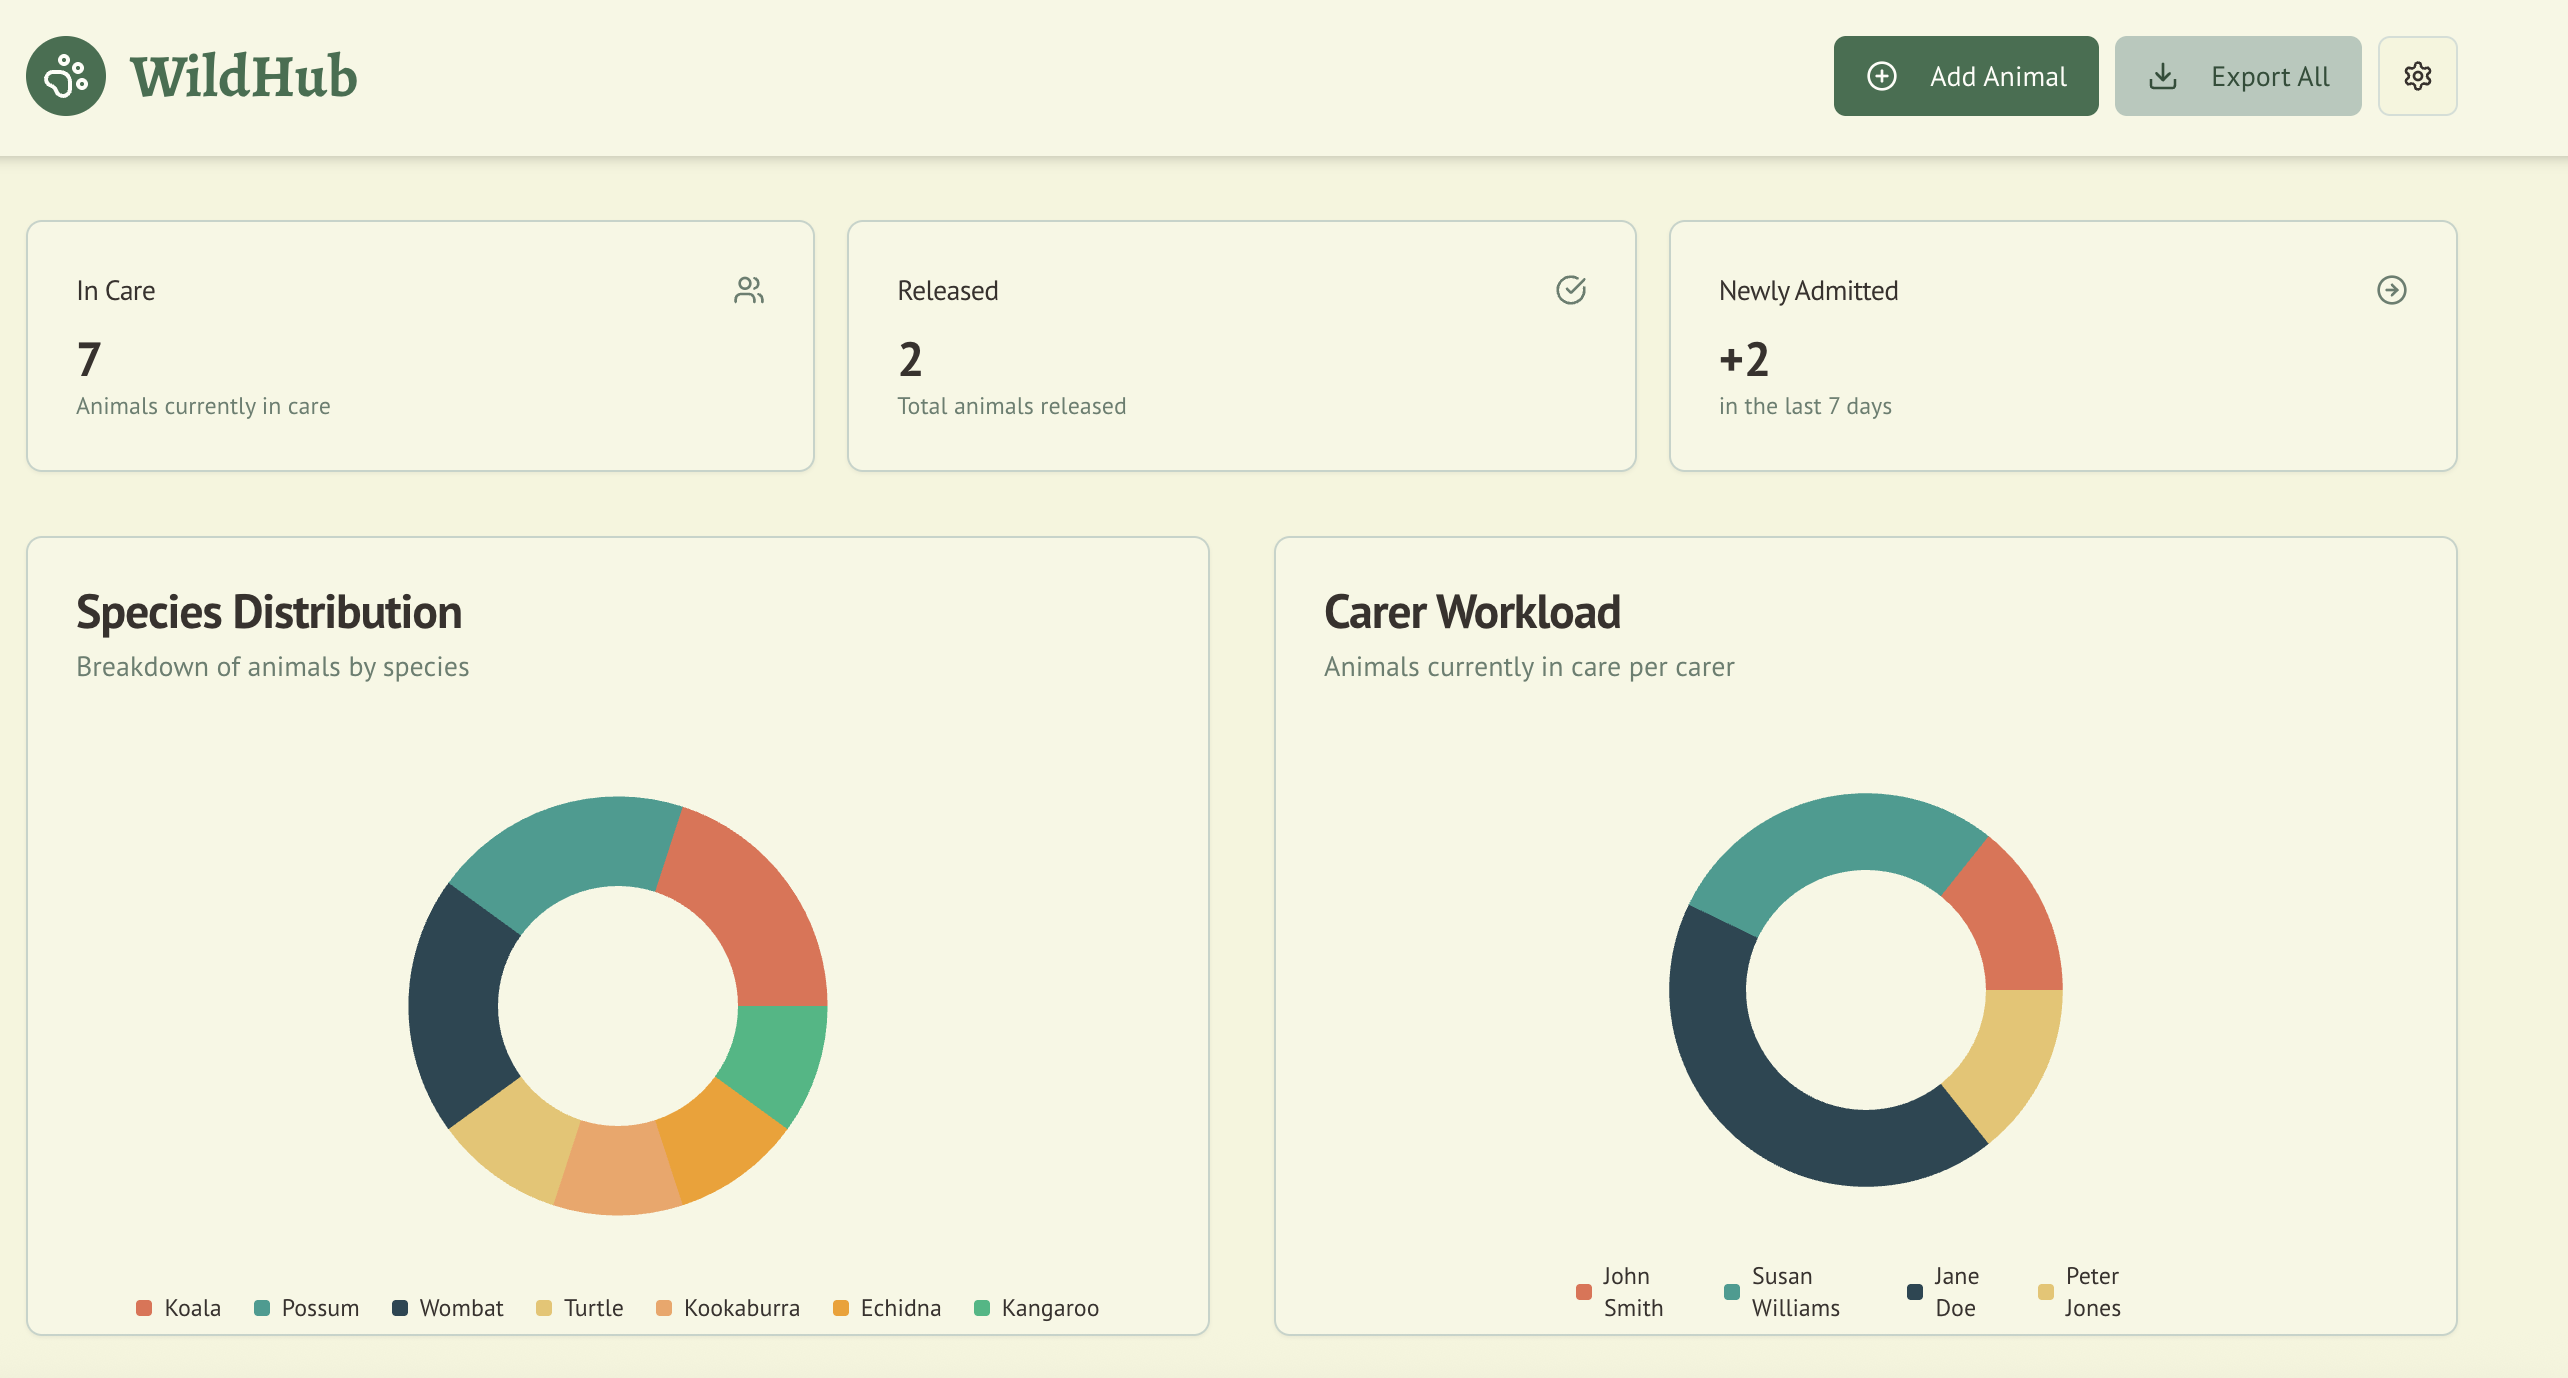
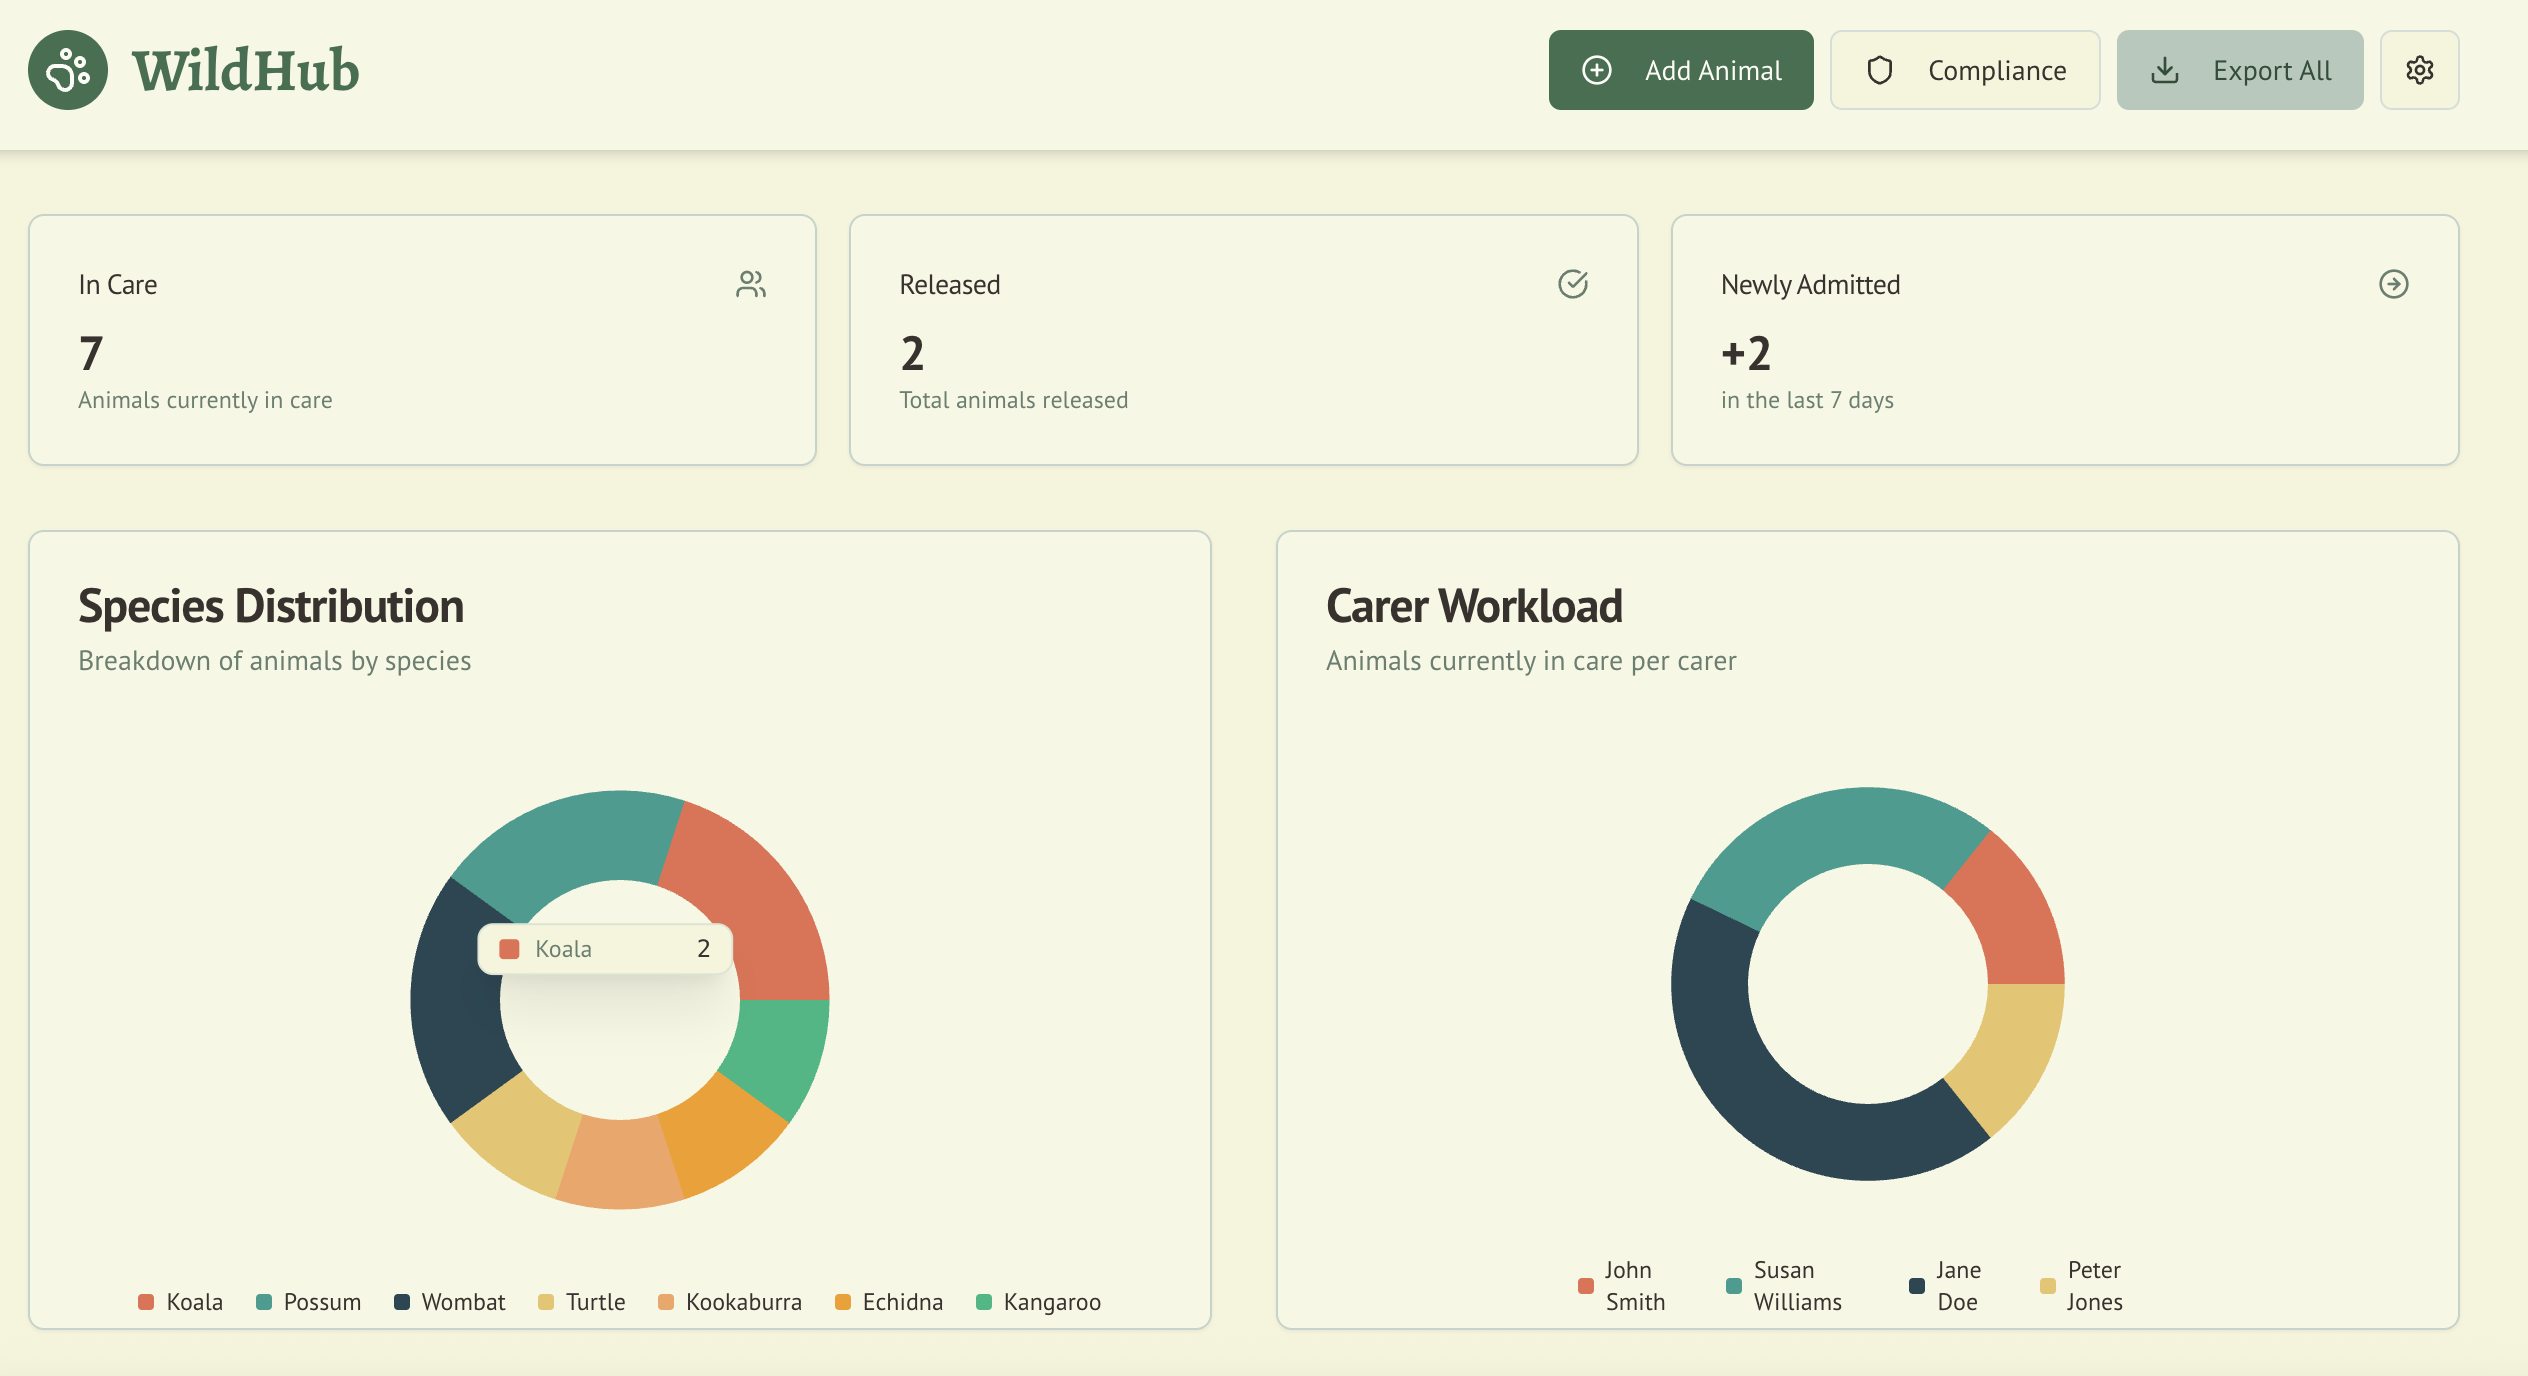
updated README

diff --git a/README.md b/README.md
@@ -1,6 +1,6 @@
 # WildHub - Wildlife Conservation Management System
 
-WildHub is a comprehensive wildlife conservation management application designed to help wildlife carers track animals throughout their entire lifecycle, from initial admission to release or unfortunate passing. The system also manages critical assets like GPS trackers and equipment to ensure efficient wildlife care operations.
+WildHub is a comprehensive wildlife conservation management application designed to help wildlife carers track animals throughout their entire lifecycle, from initial admission to release or unfortunate passing. The system also manages critical assets like GPS trackers and equipment to ensure efficient wildlife care operations, with full compliance tracking for ACT Wildlife Code of Practice requirements.
 
 ## 🖼 Screenshots
 
@@ -14,6 +14,76 @@ The dashboard provides a comprehensive overview of your wildlife conservation op
 - **Species Distribution Chart**: Visual breakdown of animals by species (Koala, Possum, Wombat, Turtle, Kookaburra, Echidna, Kangaroo)
 - **Carer Workload Chart**: Distribution of animals among carers (John Smith, Susan Williams, Jane Doe, Peter Jones)
 - **Action Buttons**: Add Animal, Export All, and Settings options
+
+### ACT Wildlife Compliance Toolkit
+The compliance dashboard provides comprehensive tools for managing ACT Wildlife Code of Practice requirements:
+
+![Compliance Dashboard](docs/images/compliance-home.png)
+
+**Features shown:**
+- **Compliance Modules**: Wildlife Register, Release Checklist, Carer Management, Hygiene Logs, Incident Reports
+- **Compliance Status**: Real-time compliance scoring and status indicators
+- **ACT Requirements**: Section-specific compliance tracking (7.1.1, 6.1-6.3, 5.2.x, etc.)
+- **Quick Actions**: Export functionality and detailed view access
+
+### Wildlife Admission & Outcome Register
+Complete record keeping for all wildlife admissions with ACT compliance requirements:
+
+![Wildlife Register](docs/images/wildlife-admission-register.png)
+
+**Features shown:**
+- **Comprehensive Records**: Animal ID, species, sex, age class, rescue details
+- **Search & Filter**: Advanced filtering by species, status, carer, and date ranges
+- **Export Capability**: CSV and PDF export for compliance reporting
+- **3+ Year Retention**: Automatic record retention for regulatory compliance
+
+### Release Site Checklist
+Ensure ethical and ecologically sound releases with compliance verification:
+
+![Release Checklist](docs/images/release-site-checklist.png)
+
+**Features shown:**
+- **Distance Enforcement**: 10km distance checking with GPS coordinates
+- **Fitness Assessment**: Pre-release health and behavior indicators
+- **Veterinary Sign-off**: Required vet approval for juveniles and long-term care
+- **Release Types**: Soft, Hard, and Passive release tracking
+- **Compliance Scoring**: Real-time compliance status and ACT requirements
+
+### Carer Licence & CPD Tracker
+Manage carer licences, training, and continuing professional development:
+
+![Carer Management](docs/images/career-license-management.png)
+
+**Features shown:**
+- **Licence Management**: Expiry tracking with 30-day reminders
+- **Training History**: Course completion and certification tracking
+- **Authorised Species**: Species-specific authorization management
+- **Compliance Alerts**: Automatic notifications for expiring licences
+- **Performance Tracking**: Carer workload and outcome monitoring
+
+### Daily Hygiene & Biosecurity Log
+Track daily cleaning protocols and biosecurity compliance:
+
+![Hygiene Management](docs/images/daily-hygine-management.png)
+
+**Features shown:**
+- **Daily Protocols**: Enclosure cleaning, PPE usage, handwashing verification
+- **Compliance Scoring**: Real-time compliance percentage calculation
+- **Biosecurity Tracking**: Quarantine procedures and disease prevention
+- **Photo Documentation**: Visual evidence of cleaning procedures
+- **Weekly Reports**: Automated compliance reporting
+
+### Incident Report Log
+Comprehensive incident tracking and reporting for regulatory compliance:
+
+![Incident Reports](docs/images/incident-report-logs.png)
+
+**Features shown:**
+- **Incident Classification**: Escape, Injury, Disease Outbreak, Improper Handling
+- **Critical Incident Alerts**: Immediate notification for serious incidents
+- **Authority Reporting**: Automatic escalation to relevant authorities
+- **Timeline Tracking**: Incident occurrence, action taken, and follow-up
+- **Documentation**: Complete audit trail with attachments
 
 ### Recent Admissions & Animal Records
 Track admissions over time and browse individual animal profiles:
@@ -66,6 +136,16 @@ Track GPS trackers and equipment inventory:
 - **Carer Workload Management**: Monitor animal distribution across carers to ensure balanced workloads
 - **Recent Admissions Tracking**: View admission trends over the last 30 days with interactive filtering
 
+### 🛡 ACT Wildlife Compliance Toolkit
+- **Wildlife Admission & Outcome Register**: Complete record keeping with 3+ year retention (Section 7.1.1, 7.1.2)
+- **Release Site Checklist**: Distance enforcement, fitness assessment, and vet sign-off (Section 6.1-6.3)
+- **Carer Licence & CPD Tracker**: Licence expiry tracking and training management
+- **Daily Hygiene & Biosecurity Log**: Daily cleaning protocols and compliance scoring (Section 5.2.x)
+- **Incident Report Log**: Comprehensive incident tracking and authority reporting (Section 5.1.3, 5.2.4, 6.4)
+- **Compliance Dashboard**: Real-time compliance scoring and status monitoring
+- **Export Functionality**: PDF and CSV export for regulatory reporting
+- **Jurisdiction Awareness**: ACT-specific requirements and policy enforcement
+
 ### 🐨 Animal Lifecycle Management
 - **Complete Animal Profiles**: Detailed records including species, carer assignment, and admission date
 - **Care Activity Logging**: Add detailed records for each care activity with timestamps and notes
@@ -77,6 +157,8 @@ Track GPS trackers and equipment inventory:
 - **Carer Assignment**: Assign animals to specific carers with workload balancing
 - **Performance Tracking**: Monitor carer performance and animal outcomes
 - **Workload Distribution**: Visual charts showing animal distribution across carers
+- **Licence Management**: Track licence expiry dates and training requirements
+- **Authorised Species**: Manage species-specific authorizations for each carer
 
 ### 🏷 Species Management
 - **Species Database**: Maintain a comprehensive list of wildlife species
@@ -93,6 +175,14 @@ Track GPS trackers and equipment inventory:
 - **Animal Search**: Find specific animals by name or characteristics
 - **Grid/List Views**: Toggle between different viewing modes
 - **Date-based Filtering**: Filter records by admission dates and time periods
+- **Compliance Filtering**: Filter by compliance status and requirements
+
+### 📋 Compliance Features
+- **Real-time Compliance Scoring**: Automatic calculation of compliance percentages
+- **ACT Code Reference**: Direct links to relevant sections of ACT Wildlife Code
+- **Alert System**: Notifications for non-compliance and expiring items
+- **Audit Trail**: Complete documentation for regulatory inspections
+- **Multi-tenant Support**: Jurisdiction-aware feature toggling
 
 ## 🚀 Getting Started
 
@@ -156,6 +246,12 @@ WildHub/
 │   ├── app/                    # Next.js app directory
 │   │   ├── admin/             # Admin panel pages
 │   │   ├── animals/           # Animal management pages
+│   │   ├── compliance/        # ACT Compliance Toolkit pages
+│   │   │   ├── carers/        # Carer management and licensing
+│   │   │   ├── hygiene/       # Daily hygiene and biosecurity logs
+│   │   │   ├── incidents/     # Incident reporting and tracking
+│   │   │   ├── register/      # Wildlife admission register
+│   │   │   └── release-checklist/ # Release site compliance
 │   │   └── layout.tsx         # Root layout
 │   ├── components/            # Reusable UI components
 │   │   ├── ui/               # Base UI components
@@ -191,6 +287,8 @@ WildHub/
 - **Dialogs**: Modal interfaces for adding/editing records with Radix UI
 - **AI Integration**: Genkit-powered features for enhanced functionality
 - **Carousel**: Image galleries and content sliders with Embla Carousel
+- **Compliance Components**: Compliance scoring, status badges, and requirement tracking
+- **Navigation**: Consistent home and back navigation throughout the application
 
 ## 📄 License
 
